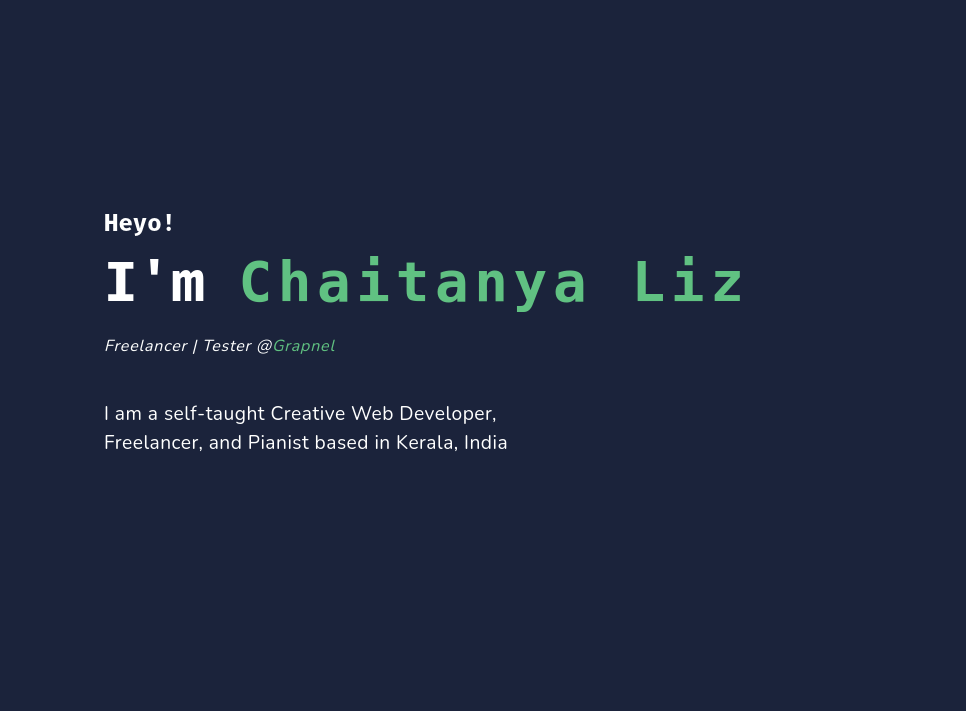
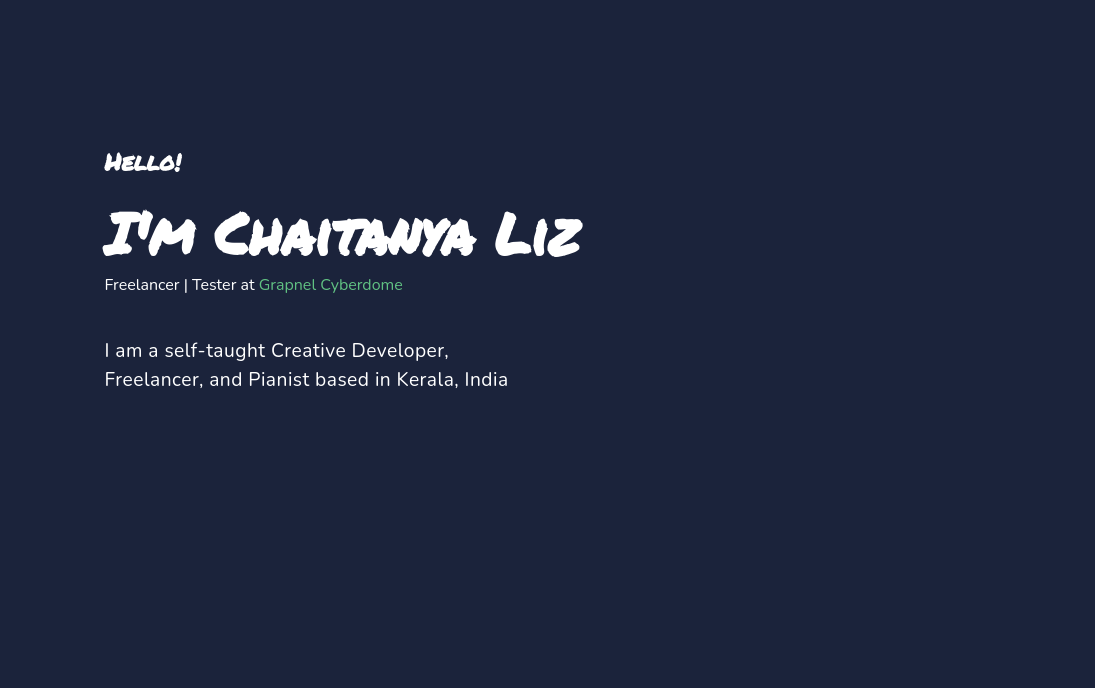
change font

diff --git a/index.html b/index.html
@@ -12,7 +12,8 @@
 
         <link rel="preconnect" href="https://fonts.googleapis.com">
         <link rel="preconnect" href="https://fonts.gstatic.com" crossorigin>
-        <link href="https://fonts.googleapis.com/css?family=Nunito" rel="stylesheet">
+        <link href="https://fonts.googleapis.com/css2?family=Nunito&family=Permanent+Marker&display=swap" rel="stylesheet">
+
 
         <link rel="stylesheet"
             href="https://cdnjs.cloudflare.com/ajax/libs/font-awesome/5.15.3/css/all.min.css"
@@ -26,11 +27,11 @@
         <link rel="stylesheet" href="./css/footer.css" type="text/css">
 
         <!-- favicon -->
-        <link rel="apple-touch-icon" sizes="180x180" href="./favicon/apple-touch-icon.png">
-        <link rel="icon" type="image/png" sizes="32x32" href="./favicon/favicon-32x32.png">
-        <link rel="icon" type="image/png" sizes="16x16" href="./favicon/favicon-16x16.png">
-        <link rel="manifest" href="./favicon/site.webmanifest">
-        <link rel="mask-icon" href="./favicon/safari-pinned-tab.svg" color="#5bbad5">
+        <link rel="apple-touch-icon" sizes="180x180" href="./favicon_io/apple-touch-icon.png">
+        <link rel="icon" type="image/png" sizes="32x32" href="./favicon_io/favicon-32x32.png">
+        <link rel="icon" type="image/png" sizes="16x16" href="./favicon_io/favicon-16x16.png">
+        <link rel="manifest" href="./favicon_io/site.webmanifest">
+        
         <meta name="msapplication-TileColor" content="#da532c">
         <meta name="theme-color" content="#ffffff">
 
@@ -55,7 +56,7 @@
             <section id="home">
                 <div class="landing-page-details">
                     <h1 class="small-title">Hello!</h1>
-                    <h2 class="big-title">I'm <span class="my-name pink">Chaitanya Liz</span></h2>
+                    <h2 class="big-title">I'm Chaitanya Liz</h2>
                     <h4 class="medium-title">Freelancer | Tester at <a class="green">Grapnel Cyberdome</a></h4>
                     <div class="short-bio">
                         <p>I am a self-taught Creative Developer,<br/>Freelancer, and Pianist
@@ -158,7 +159,7 @@
                             </p>
                         </div>
                     </div>
-                    <div class="card">
+                    <!--<div class="card">
                         <img src="./project/shruthi.png"
                             alt="Project Preview Screenshot" class="card-preview-img">
                         <div class="card-info">
@@ -183,6 +184,33 @@
                             <p class="project-description">
                                Shruthi is a IEEE SIGHT Event Website for providing Educational Audio Textbooks
                                for students who are specially abled 
+                            </p>
+                        </div>
+                    </div>-->
+                    <div class="card">
+                        <img src="./project/car-siren.jpeg"
+                            alt="Project Preview Screenshot" class="card-preview-img">
+                        <div class="card-info">
+                            <div class="title-and-links">
+                                <span class="project-title">
+                                    Car Backlights and Siren 
+                                </span>
+                                <div class="project-links">
+                                    <a href="https://github.com/CLiz17/car-backlight-n-siren-arduino">
+                                        <i class="fas fa-external-link-alt"></i>
+                                    </a>
+                                    <a href="https://github.com/CLiz17/car-backlight-n-siren-arduino">
+                                        <i class="fab fa-github"></i>
+                                    </a>
+                                </div>
+                            </div>
+                            <div class="project-skills">
+                                <span>Embedded C</span>
+                            </div>
+                            <p class="project-description">
+                                Using Arduino Nano to replicate the functioning of Car Backlight Siren
+                                An ultrasonic senor is used for calculating the distance from the
+                                obstacle to produce the intended ligh and buzzer horns
                             </p>
                         </div>
                     </div>

diff --git a/projects.html b/projects.html
@@ -12,7 +12,8 @@
 
         <link rel="preconnect" href="https://fonts.googleapis.com">
         <link rel="preconnect" href="https://fonts.gstatic.com" crossorigin>
-        <link href="https://fonts.googleapis.com/css?family=Nunito" rel="stylesheet">
+        <link href="https://fonts.googleapis.com/css2?family=Nunito&family=Permanent+Marker&display=swap" rel="stylesheet">
+
 
         <link rel="stylesheet"
             href="https://cdnjs.cloudflare.com/ajax/libs/font-awesome/5.15.3/css/all.min.css"
@@ -52,7 +53,7 @@
         <main class="main-container project-section">
             <section class="projects">
                 <div class="page-title">
-                    <h2>lizchaitanya.<span class="pink">projects</span></h2>
+                    <h2>lizchaitanya .projects</h2>
                 </div>
                 <p class="section-description">
                     Here are some of my personals projects.<br>
@@ -126,7 +127,7 @@
                                     Sourorja - IEEE Event Website 
                                 </span>
                                 <div class="project-links">
-                                    <a href="https://cliz17.github.io/Sourorja-2.0/">
+                                    <a href="http://sourorja2.0.ieeesbnssce.org/">
                                         <i class="fas fa-external-link-alt"></i>
                                     </a>
                                     <a href="https://github.com/CLiz17/Sourorja-2.0">
@@ -144,7 +145,7 @@
                             </p>
                         </div>
                     </div>
-                    <div class="card">
+                    <!--<div class="card">
                         <img src="./project/shruthi.png"
                             alt="Project Preview Screenshot" class="card-preview-img">
                         <div class="card-info">
@@ -171,7 +172,7 @@
                                for students who are specialy abled 
                             </p>
                         </div>
-                    </div>
+                    </div>-->
                     <div class="card">
                         <img src="./project/doroidoverse.png"
                             alt="Project Preview Screenshot" class="card-preview-img">

diff --git a/about.html b/about.html
@@ -14,7 +14,8 @@
 
         <link rel="preconnect" href="https://fonts.googleapis.com">
         <link rel="preconnect" href="https://fonts.gstatic.com" crossorigin>
-        <link href="https://fonts.googleapis.com/css?family=Nunito" rel="stylesheet">
+        <link href="https://fonts.googleapis.com/css2?family=Nunito&family=Permanent+Marker&display=swap" rel="stylesheet">
+
 
         <link rel="stylesheet"
             href="https://cdnjs.cloudflare.com/ajax/libs/font-awesome/5.15.3/css/all.min.css"
@@ -54,7 +55,7 @@
         <main class="main-container about-section">
             <section id="profile">
                 <div class="page-title">
-                    <h2>lizchaitanya.<span class="pink">profile</span></h2>
+                    <h2>lizchaitanya .profile</h>
                 </div>
                 <p class="section-description">
                     Exploring new technology and possibly trying them out is my niche.<br/>

diff --git a/css/main.css b/css/main.css
@@ -14,7 +14,11 @@ body {
 }
 
 h1, h2, h3 {
-    font-family: 'Fira Mono', monospace;
+    font-family: 'Comforter Brush', cursive;
+}
+
+a .header-logo{
+    font-family: 'Comforter Brush', cursive;
 }
 
 h2 {
@@ -81,7 +85,7 @@ section {
 section .hyperlink {
     color: #7EB77F;
     font-weight: 700;
-    text-decoration: underline;
+    text-decoration: none;
     transition: all 0.2s ease;
 }
 

diff --git a/css/about.css b/css/about.css
@@ -3,12 +3,13 @@ h4, h5 {
     letter-spacing: 0.05em;
 }
 
+h1, h2, h3 {
+    font-family: 'Permanent Marker', cursive;
+}
+
 .date {
     font-style: italic;
 }
-
-/* --- PROFILE --- */
-
 .profile-container {
     margin-top: 25px;
     display: flex;

diff --git a/css/projects.css b/css/projects.css
@@ -1,7 +1,9 @@
 em {
     color: #1D263B;
 }
-
+h1, h2, h3 {
+    font-family: 'Permanent Marker', cursive;
+}
 .projects {
     padding-top: 100px;
     max-width: 1200px;

diff --git a/css/header.css b/css/header.css
@@ -50,7 +50,7 @@ header {
 
 .nav-item a:hover, .nav-item a:focus {
     color: #7EB77F;
-    text-decoration: underline;
+    text-decoration: none;
 }
 
 .active {

diff --git a/css/home.css b/css/home.css
@@ -64,7 +64,7 @@ h3 em {
 
 h3 a:hover {
     color: #7EB77F;
-    text-decoration: underline;
+    text-decoration: none;
 }
 
 .short-bio {

diff --git a/css/footer.css b/css/footer.css
@@ -65,7 +65,7 @@
 }
 
 .footer-button:hover {
-    text-decoration: underline;
+    text-decoration: none;
     color: #7EB77F;
 }
 
